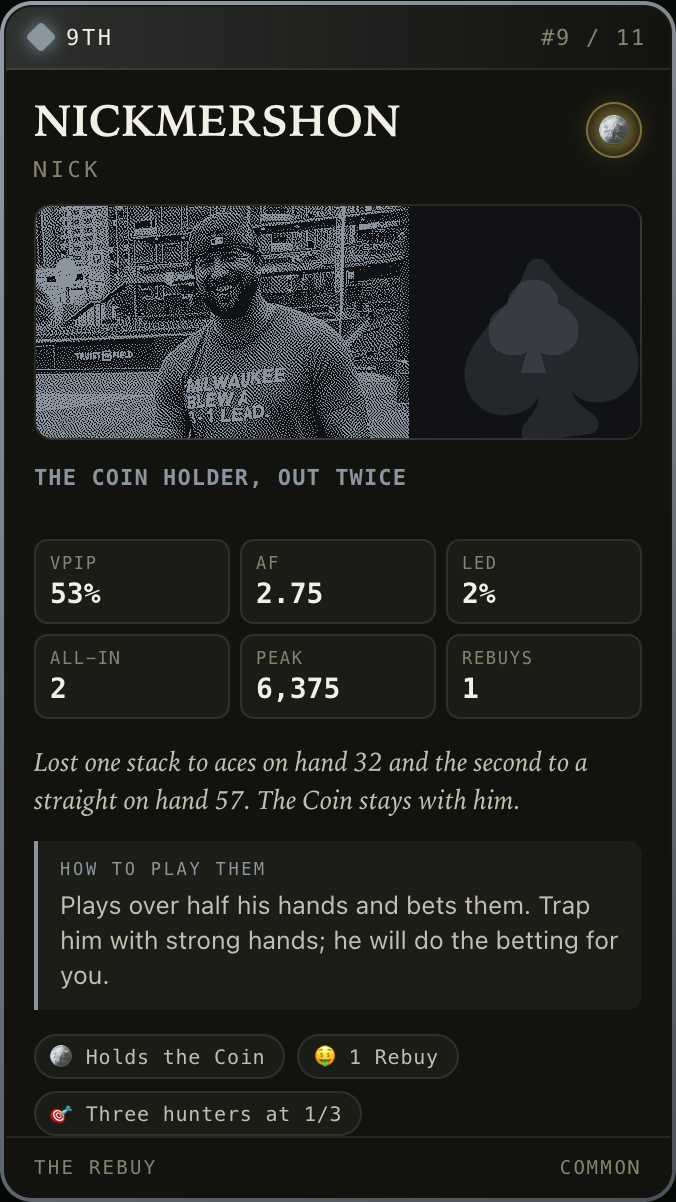
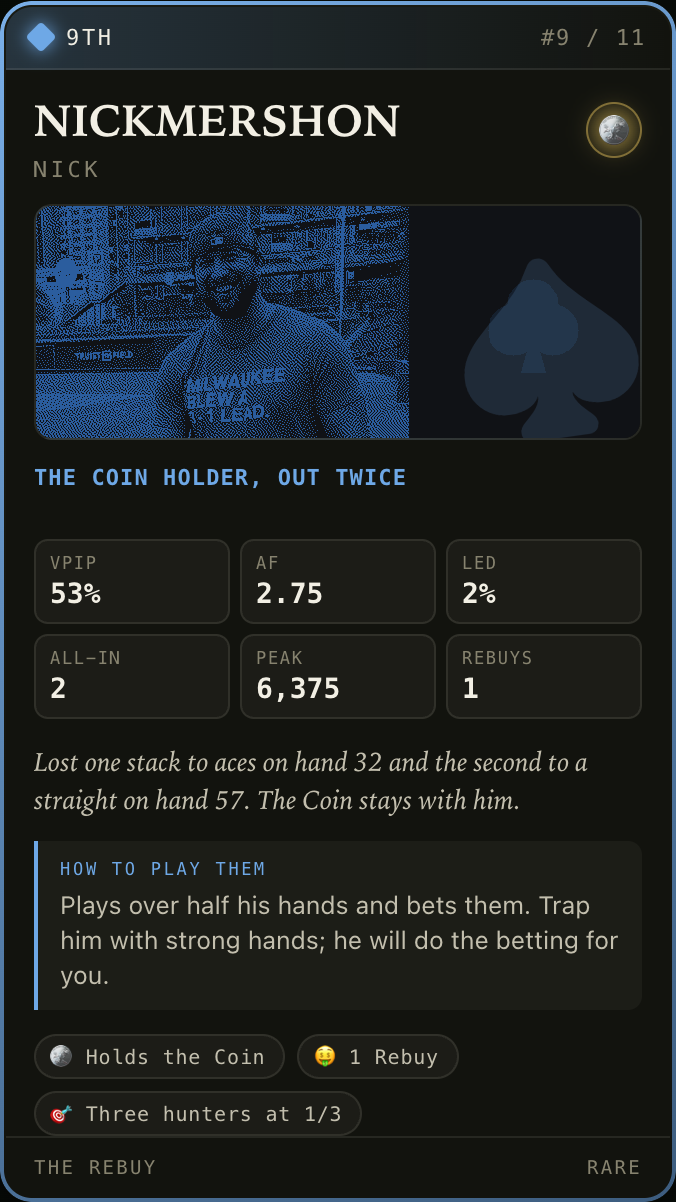
Set 4 card 9: the Coin floor keeps Nick M. rare

diff --git a/site/cards/2026-10/index.html b/site/cards/2026-10/index.html
@@ -63,8 +63,8 @@
         <figcaption class="card-caption"><svg class="mark mark--copper" viewBox="0 0 12 12" width="12" height="12" aria-hidden="true"><path d="M6 0 12 6 6 12 0 6Z"/></svg> Uncommon · Mike M. · The Founder</figcaption>
       </figure>
       <figure>
-        <div class="card-frame"><img src="assets/card-9-nickmershon.png" alt="Common card: Nick M., nickmershon, 9th"></div>
-        <figcaption class="card-caption"><svg class="mark mark--pewter" viewBox="0 0 12 12" width="12" height="12" aria-hidden="true"><path d="M6 0 12 6 6 12 0 6Z"/></svg> Common · Nick M. · 9th</figcaption>
+        <div class="card-frame"><img src="assets/card-9-nickmershon.png" alt="Rare card: Nick M., nickmershon, 9th, holds the Hope Coin"></div>
+        <figcaption class="card-caption"><svg class="mark mark--sapphire" viewBox="0 0 12 12" width="12" height="12" aria-hidden="true"><path d="M6 0 12 6 6 12 0 6Z"/></svg> Rare · Nick M. · 9th</figcaption>
       </figure>
       <figure>
         <div class="card-frame"><img src="assets/card-10-joshb.png" alt="Common card: Josh B., joshb, 10th"></div>

diff --git a/site/player/nick-m/index.html b/site/player/nick-m/index.html
@@ -26,8 +26,8 @@
     <h2 class="rule-label">Cards</h2>
     <div class="card-gallery">
       <figure>
-        <div class="card-frame"><img src="/cards/2026-10/assets/card-9-nickmershon.png" alt="Common card: Nick M., 9th"></div>
-        <figcaption class="card-caption">Common · 9th · The Rebuy</figcaption>
+        <div class="card-frame"><img src="/cards/2026-10/assets/card-9-nickmershon.png" alt="Rare card: Nick M., 9th"></div>
+        <figcaption class="card-caption">Rare · 9th · The Rebuy</figcaption>
       </figure>
       <figure>
         <div class="card-frame"><img src="/cards/2026-08/assets/card-4-nickmershon.png" alt="Rare card: Nick M., Holds the Coin"></div>
